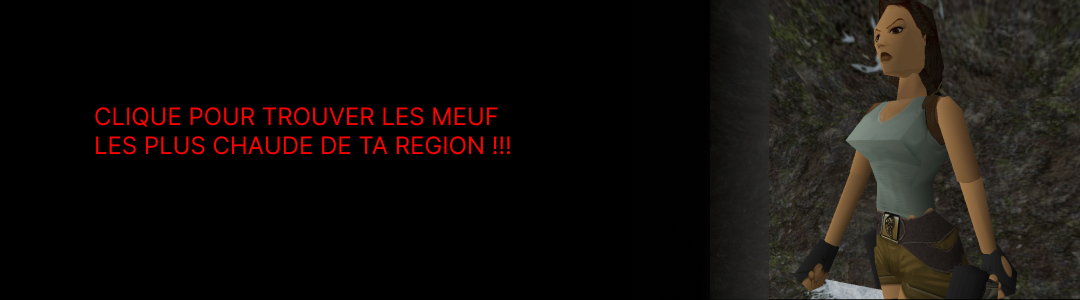
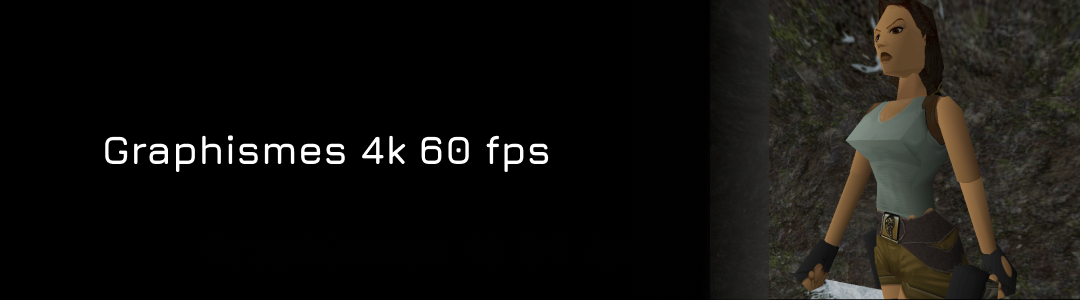
#15 added carrousel auto scrolling, and improved front

Changed region(s): [[0.0917, 0.45, 0.5194, 0.57], [0.0917, 0.36, 0.4583, 0.42]]

diff --git a/templates/gallery/gallery.css b/templates/gallery/gallery.css
@@ -1,14 +1,19 @@
 .grid{
     display: grid;
     grid-template-columns: repeat(auto-fit, minmax(500px, 1fr));
-    grid-gap: 20px;
+    grid-gap: 30px;
+    justify-items: center;
+    margin-left: 40px;
+    margin-right: 40px;
+    margin-bottom: 40px;
 }
 .column {
     display: grid;
-    grid-template-columns: repeat(1, minmax(150px, 0.8fr));
+    grid-template-columns: repeat(1, minmax(150px, 0.6fr));
 
     grid-gap: 20px;
-justify-content: center
+justify-content: center;
+    margin-bottom: 40px;
 }
 object {
     pointer-events: none;
@@ -23,20 +28,25 @@ object {
     flex-direction: column;
     align-items: center;
     border-radius: 15px;
+    width: 100%;
+
 
 
 }
 #displayImages>div>img{
-    width: fit-content;
+    width: 100%;
 
 
 
 }
 .column>div>img{
-    height: 100vh;
+    height: auto;
+
 }
+/*------------------------------------------------*/
 #displayOptions{
-    margin-top: 20px;
+    margin-left: 40px;
+    margin-top: 30px;
     display: flex;
     gap:10px;
     margin-bottom: 50px;
@@ -57,5 +67,74 @@ object {
     cursor: pointer;
 }
 .displayOff{
-    display: none;
+    display: none !important;
+}
+/*---------------------------------------*/
+.carrousel{
+    position: relative;
+    width: 1080px;
+    height: 300px;
+    overflow: hidden;
+    /*background-image:{url('./../../images/pub2.png')};*/
+}
+.carrousel .slide-image{
+    width: 1080px;
+    height: 300px;
+    background-size: cover;
+    background-repeat: no-repeat;
+}
+.carrousel-item{
+    position: absolute;
+    width: 100%;
+    height: 1080px;
+    border: none;
+    top: 0;
+    left: 100%;
+}
+.carrousel-item.active {
+    left:0;
+    transition: all 1s ease-out;
+}
+.carousel-item div {
+    height: 100%;
+}
+.carrousel-container{
+    display: flex;
+    justify-content: center;
+    margin-top: 30px;
+}
+/*----------------------------------------------------------*/
+#showButton{
+    width: 30px;
+    height: 30px;
+    border-radius: 80px;
+    background-color: yellow;
+    border: black 2px solid;
+    font-size: 20px;
+    justify-content: end;
+    margin-right: 70px;
+}
+#showInput{
+    display: flex;
+    justify-content: end;
+}
+#addInput{
+    display: flex;
+    justify-content: center;
+}
+#addImage{
+    border-right: none;
+    background-color: yellow;
+    height: 34px;
+}
+#button{
+    border-left: none;
+    background-color: darkorange;
+}
+#button{
+    height: 40px;
+}
+#showButton,#addInput{
+    margin-bottom: 60px;
+    margin-top: -50px;
 }

diff --git a/templates/gallery/gallery.js b/templates/gallery/gallery.js
@@ -88,3 +88,42 @@ showButton.onclick = function () {
     showInput.setAttribute("class","displayOff");
 
 }
+//------------------------------------------------------------------------
+
+    let slides = document.getElementsByClassName('carrousel-item');
+    function addActive(slide){
+        slide.classList.add('active')
+    }
+    function removeActive(slide){
+        slide.classList.remove('active');
+    }
+    addActive(slides[0]);
+    setInterval(function (){
+        for (let i=0;i<slides.length;i++){
+            if (i+1 === slides.length){
+                setTimeout(removeActive, 100, slides[i]);
+                addActive(slides[0]);
+                break;
+            }
+            if (slides[i].classList.contains('active')){
+                setTimeout(removeActive,1000,slides[i]);
+                addActive(slides[i+1]);
+                break;
+            }
+        }
+        }
+   ,5000 )
+
+
+var slideImages = document.querySelectorAll('.slide-image');
+
+// Récupérez le dernier élément de la liste
+var lastSlideImage = slideImages[slideImages.length - 1];
+
+// Obtenez le style de l'élément
+var backgroundImageStyle = lastSlideImage.style.backgroundImage;
+let carrousel = document.querySelector(".carrousel");
+console.log(backgroundImageStyle)
+carrousel.style.backgroundImage = backgroundImageStyle;
+// Utilisez une expression régulière pour extraire l'URL de l'image
+

diff --git a/layouts/navbar.js b/layouts/navbar.js
@@ -56,6 +56,8 @@ div.appendChild(part2);
 div.appendChild(part3);
 part1.appendChild(button);
 part2.appendChild(title);
+part2.style.display ="flex"
+part2.style.alignItems ="center"
 part3.appendChild(description);
 div.style.width = "100%";
 div.style.height = "80px";
@@ -75,15 +77,21 @@ button.onclick = function () {
     if (dropdownOpened) {
         part1.removeChild(part1.querySelector('.dropdown-content'));
         part1.style.marginTop = "0px" ; // Fixe la hauteur de part1
+        button.style.borderRadius = "10px";
 
         dropdownOpened = false;
     } else {
         dropdown();
         part1.style.marginTop = "82px" ; // Fixe la hauteur de part1
         dropdownOpened = true;
+        button.style.borderRadius = "10px 10px 0 0";
+
     }
 }
 let css = `
+        *{
+        margin: 0px;
+        }
         .dropdown-content a {
             color: black;
             padding: 12px 16px;
@@ -96,6 +104,13 @@ let css = `
         .dropdown-content > a:hover {
             background-color: whitesmoke;
         }
+        .dropdown>button {
+        width : 100%;
+        background-color: white;
+        border : none;
+        border-radius: 10px;
+        }
+
     `;
 let styile = document.createElement("style");
 styile.textContent = css;

diff --git a/templates/gallery/gallery.html b/templates/gallery/gallery.html
@@ -14,7 +14,24 @@
     <div id="navbar"></div>
 </header>
 <main>
-    <div id="displayOptions"></div>
+    <div class="carrousel-container">
+        <div class="carrousel">
+            <div class="carrousel-item">
+                <div class="slide-image"
+                     style="background-image:url('./../../images/pub1.png')">
+                </div>
+            </div>
+
+            <div class="carrousel-item">
+                <div class="slide-image"
+                     style="background-image:url('./../../images/pub2.png')">
+                </div>
+            </div>
+        </div>
+    </div>
+    <div id="displayOptions">
+
+    </div>
     <div id="showInput">
         <button id="showButton">+</button>
     </div>
